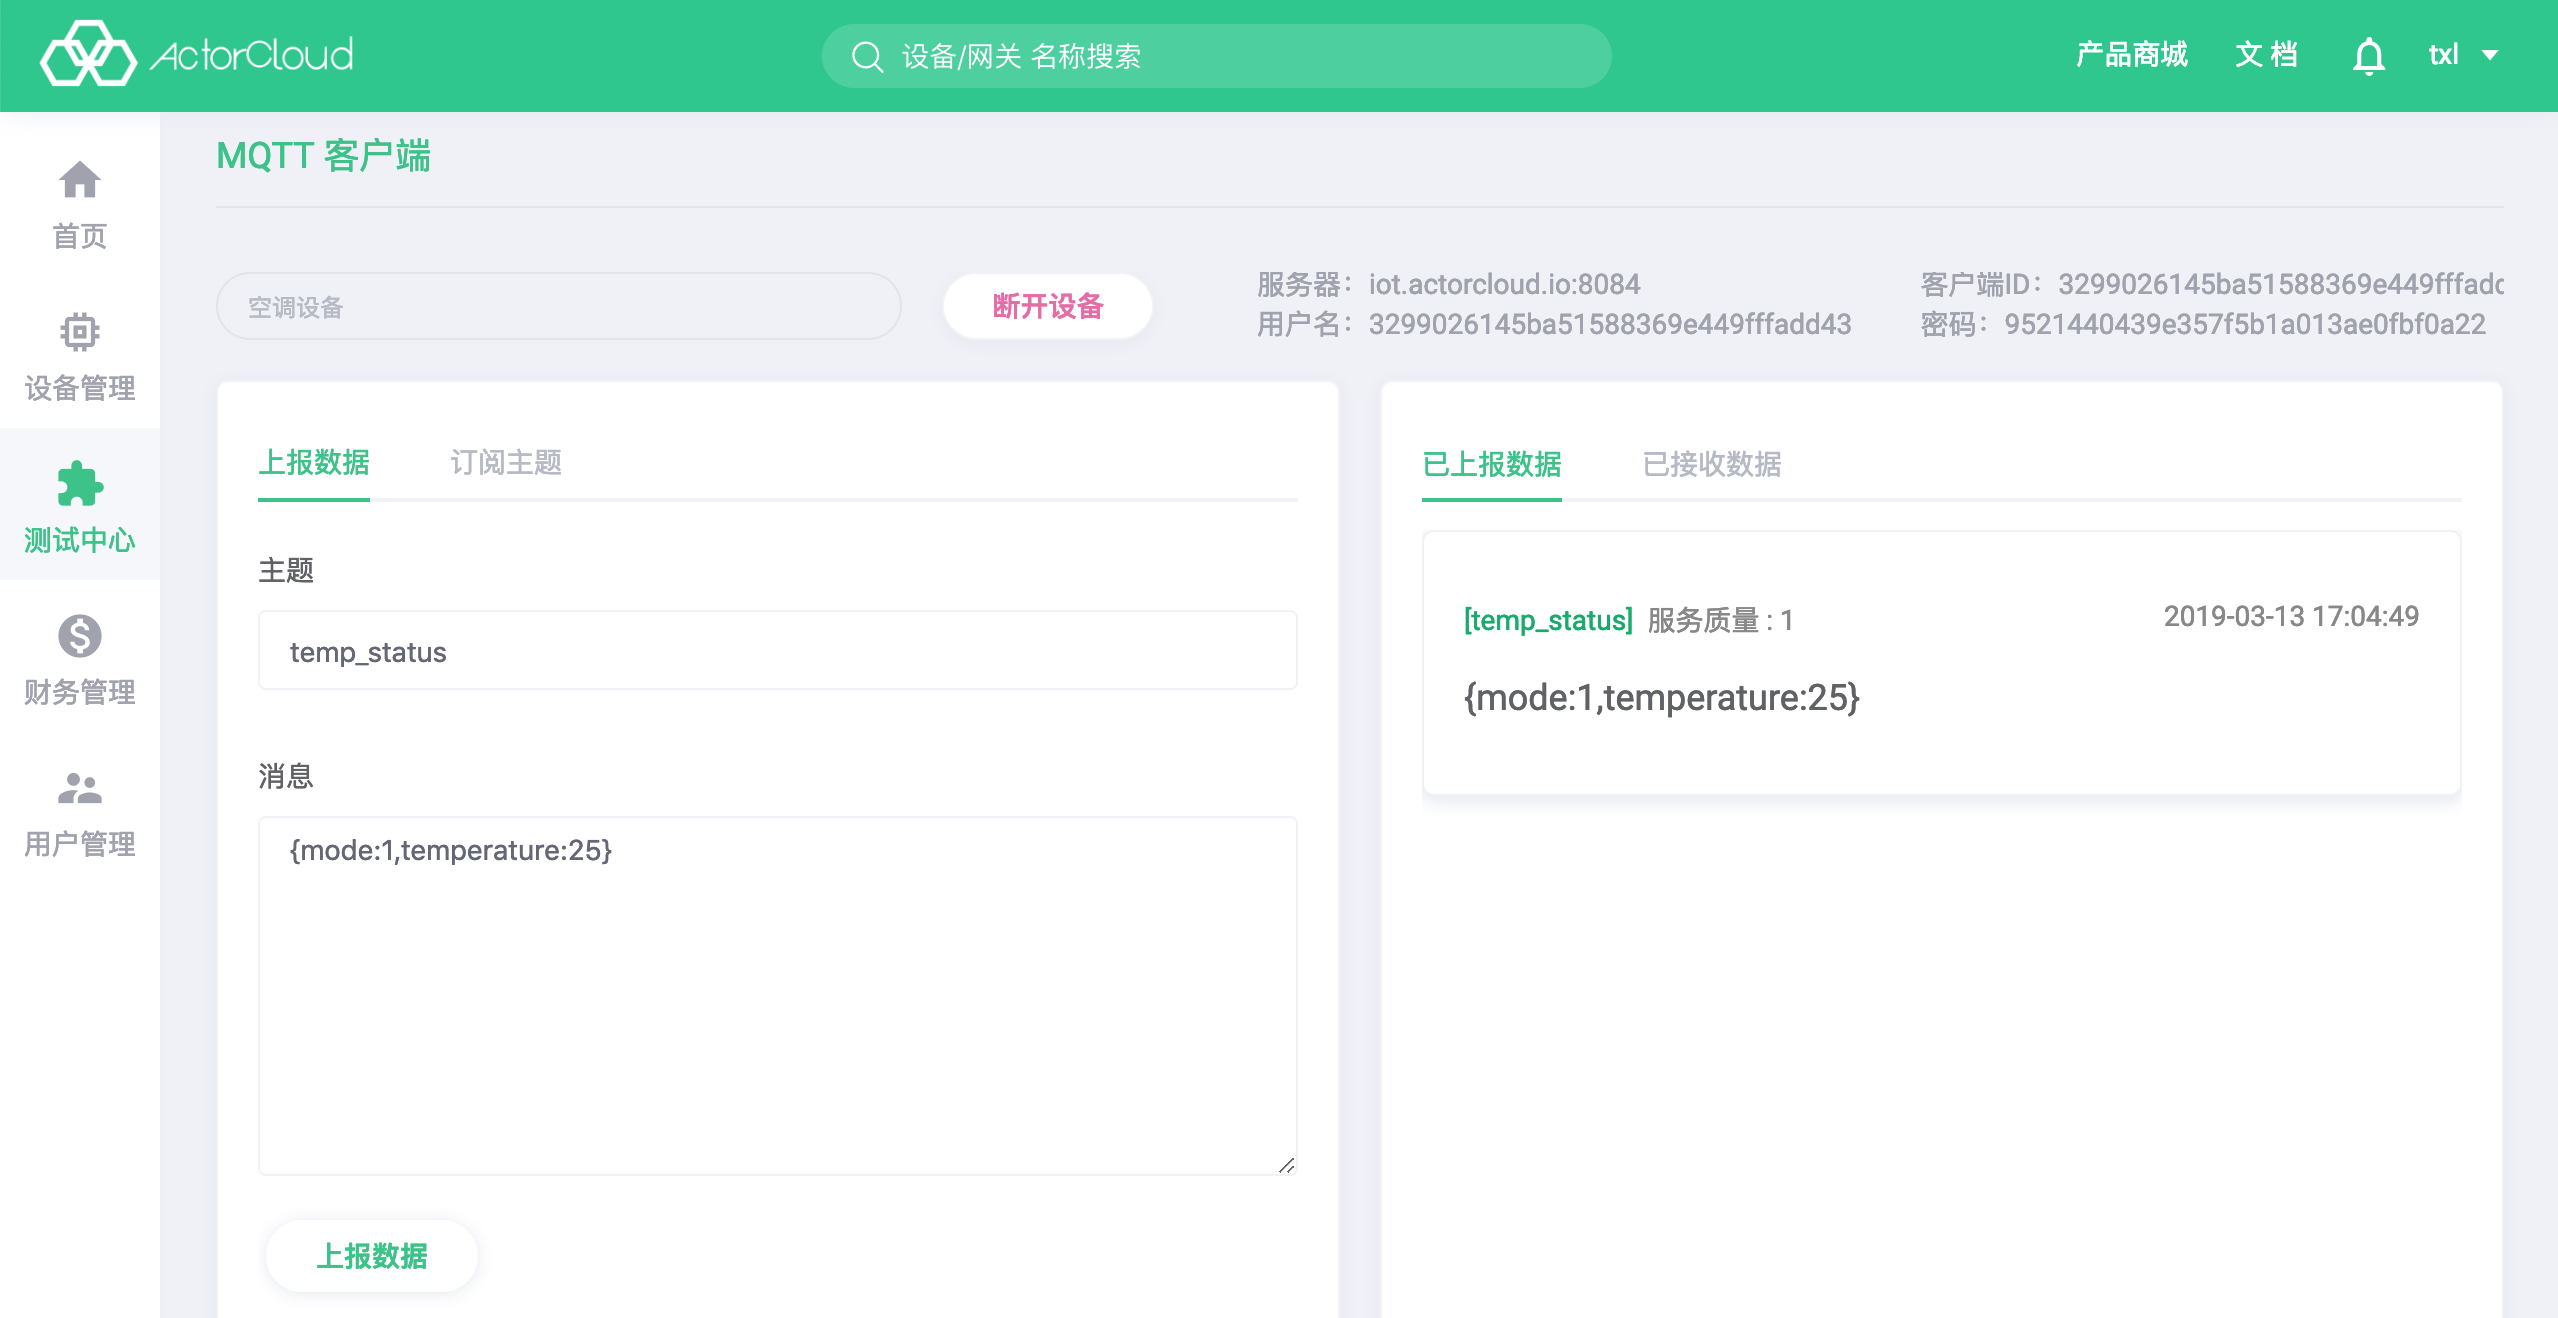
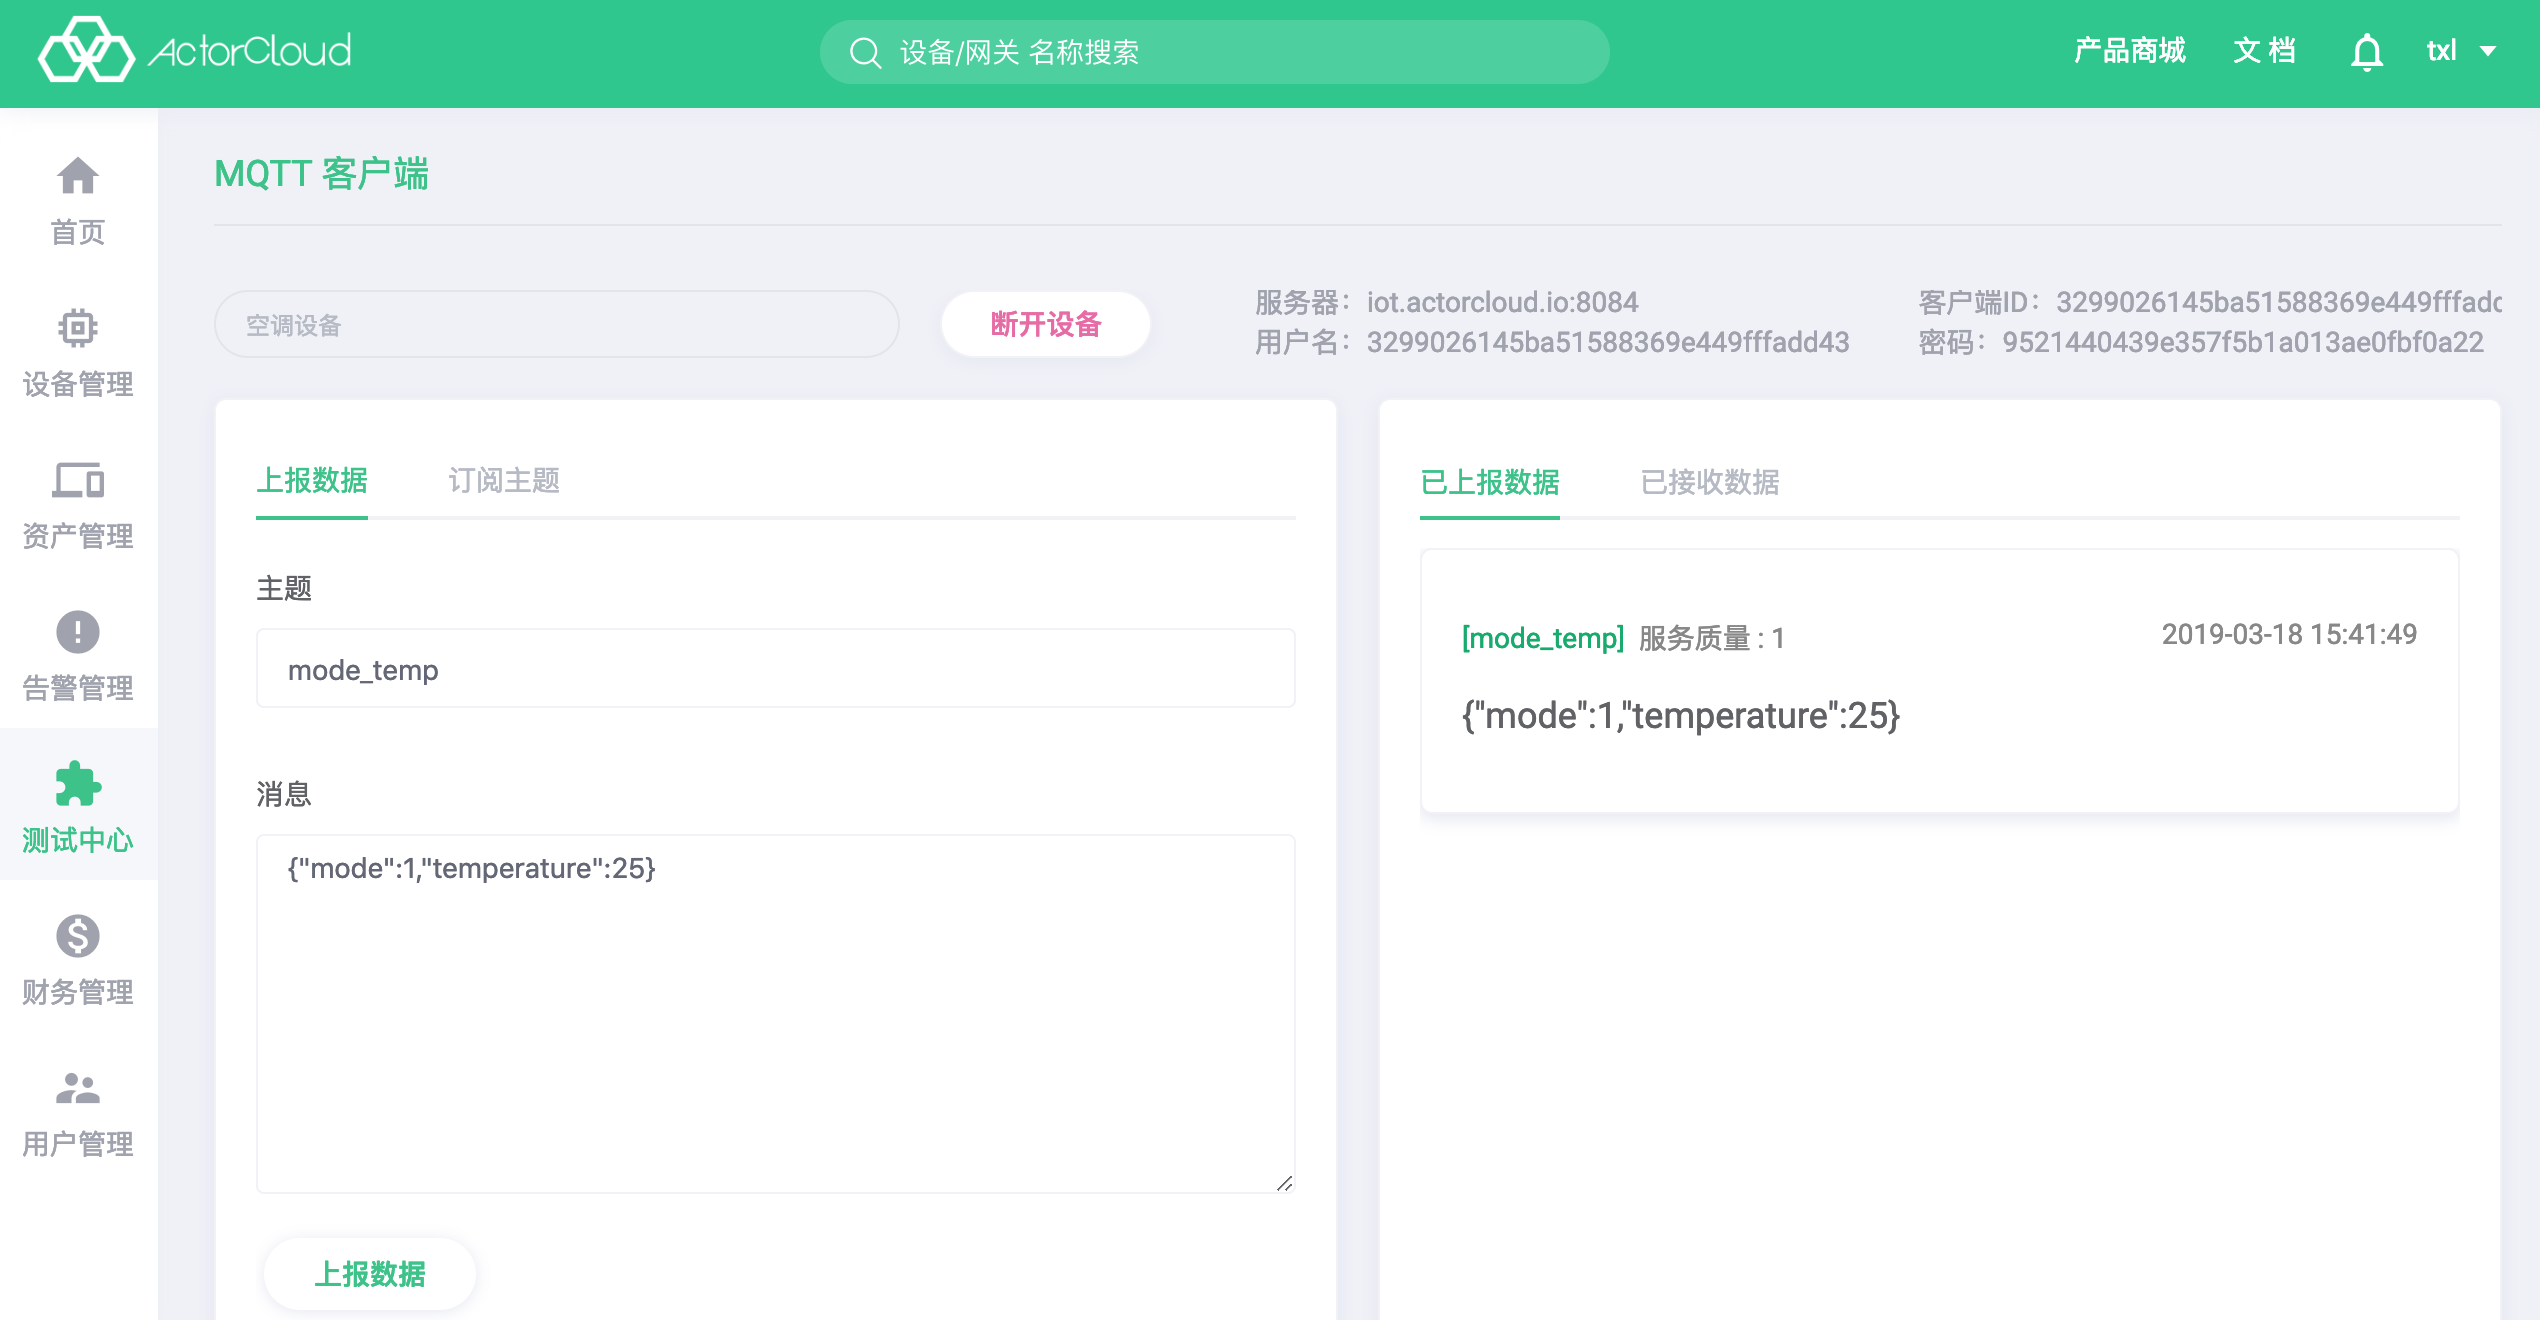
feat(notice.md): 设备快速接入指南新增查看上报数据部分，调整部分文案

diff --git a/access_guide/notice.md b/access_guide/notice.md
@@ -4,13 +4,13 @@
 
 ## 案例概述
 
-本案例通过空调上报温度和模式（制冷，制热）给MQTT为例，帮助开发者快速体验接入MQTT。
+本案例以空调上报温度和模式（制冷，制热）数据为例，帮助开发者快速接入 MQTT 协议设备。
 
 ## 接入步骤
 
 1. #### 新建产品
 
-   选择 设备管理->产品管理->新建，创建一个名为"**空调**"的产品，云端协议选择"**MQTT**"，产品类型选择"**设备**"，点击"完成"，添加设备成功。
+   选择 设备管理->产品管理->新建，创建一个名为"**空调**"的产品，云端协议选择"**MQTT**"，产品类型选择"**设备**"，点击"完成"，添加产品成功。
 
    ![](../assets/example_product_create.png)
 
@@ -34,7 +34,7 @@
 
    选择“**数据流**”选项卡，点击右上角“新建”。
 
-   数据流名称填入“**空调状态**”，数据格式选择“**JSON**”，流类型选择“**设备数据上报**”，数据流主题填入“**temp_status**”，功能点选择上一步创建好的两个功能点“**模式**”“**温度**”，点击完成，成功添加数据流。
+   数据流名称填入“**空调状态**”，数据格式选择“**JSON**”，流类型选择“**设备数据上报**”，数据流主题填入“**mode_temp**”，功能点选择上一步创建好的两个功能点“**模式**”“**温度**”，点击完成，成功添加数据流。
 
    ![](../assets/example_stream_create.png)
 
@@ -48,16 +48,26 @@
 
    新建设备详细操作请参考[创建设备](/device/device_create.md)。
 
-5. #### 上报数据
+5. #### 模拟设备上报数据
 
-   选择 测试中心->MQTT客户端，选择上一步创建好的设备“**空调设备**”，点击启动设备，接入mqtt。
+   选择 测试中心->MQTT客户端，选择上一步创建好的设备“**空调设备**”，点击启动设备，以模拟设备接入 ActorCloud。
 
    ![](../assets/example_mqtt_run.png)
 
-   在“上报数据”选项卡，输入上面创建的数据流主题“**temp_status**”，消息字段输入JSON数据“**{mode:1,temperature:25}**”（制冷25度），点击“上报数据”，上报成功，右侧“已上报数据”选项卡可看到上报数据。
+   在“上报数据”选项卡，输入上面创建的数据流主题“**mode_temp**”，消息字段输入JSON数据“**{"mode":1,"temperature":25}**”（制冷25度），点击“上报数据”，上报成功，右侧“已上报数据”选项卡可看到上报数据。
 
    ![](../assets/example_mqtt_report.png)
 
    MQTT客户端详细操作请参考[MQTT客户端](/test_center/mqtt.md#mqtt-客户端)。
 
-   
+6. #### 查看设备上报数据
+
+   设备事件：进入设备管理，找到上面创建的设备“**空调设备**”，点击设备名称进入设备详情页，选择"设备事件"选项卡，可以看到刚刚上报的数据信息。设备事件详细参考[设备事件](/device/device.html#设备事件)。
+
+   ![](../assets/example_device_event.png)
+
+   原始数据：选择"原始数据"选项卡，可以看到被解析出来的上报数据。原始数据详细参考[原始数据](/device/device.html#原始数据)。
+
+   ![](../assets/example_device_data.png)
+
+	

diff --git a/README.md b/README.md
@@ -26,7 +26,7 @@
 
   - 如果您已经有物理设备，则可以使用设备接入 **ActorCloud** 来完成本教程；
 
-  - 如果您没有物理设备，可以通过使用 [MQTT 客户端](https://developer.emqx.io/sdk_tools?category=MQTT_Clients)或[在线测试中心](https://console.actorcloud.io/mqtt_client)利用软件环境来模拟一个接入设备，查看[设备接入指南](./access_guide/notice.md)。
+  - 如果您没有物理设备，可以通过使用 [MQTT 客户端](https://developer.emqx.io/sdk_tools?category=MQTT_Clients)或[在线测试中心](https://console.actorcloud.io/mqtt_client)利用软件环境来模拟一个接入设备，查看[设备快速接入指南](./access_guide/notice.md)。
 
     
 
